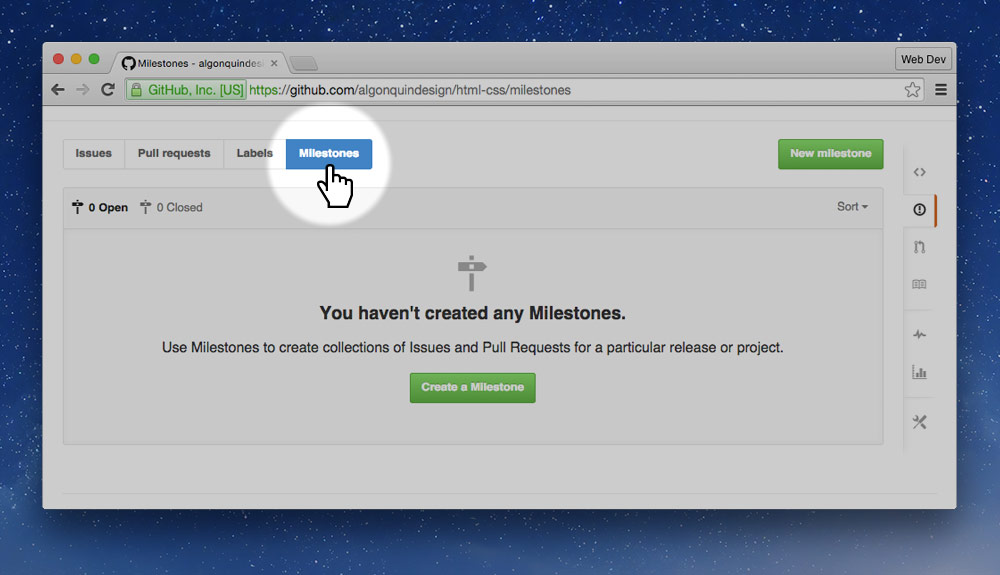
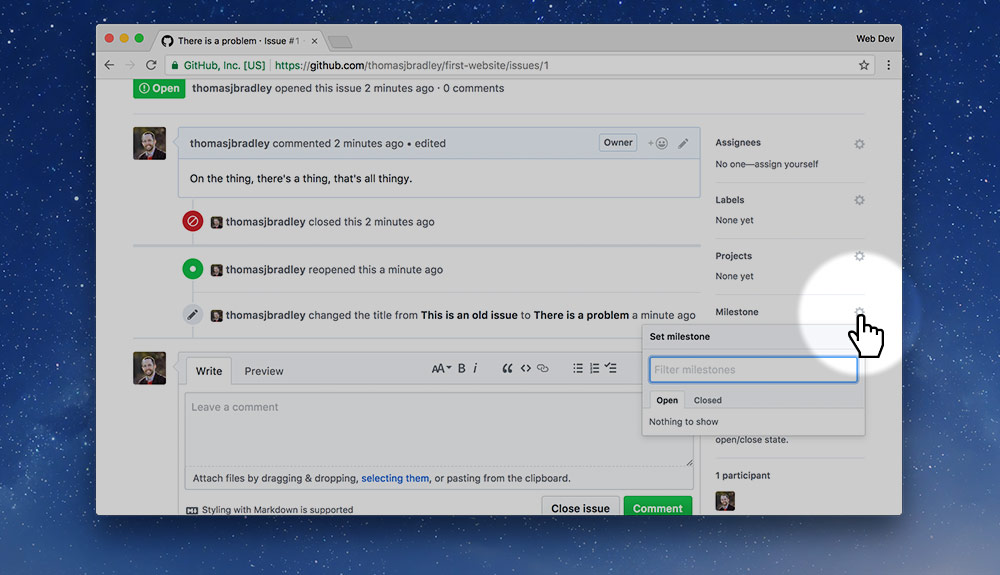
Update the GitHub intro tutorials

diff --git a/version-control-github.md b/version-control-github.md
@@ -3,6 +3,7 @@ title: "Version control & GitHub"
 tags: "version control history undo saving github use committing syncing undo saving history messages descriptions application"
 desc: "Understanding the value of version control and how it helps us and using GitHub to store the code’s history and synchronize."
 playlist: PLWjCJDeWfDdcj8_NSNFfsbHrjCfetYJWJ
+cheatsheet: commit-message-cheat-sheet
 ---
 
 Version control is something all developers & designers should become intimately familiar with. It allows us to track changes in our code, over time, and rollback to older versions if we mess up.
@@ -57,6 +58,8 @@ That’s it—but, there is so much more you can do.
 
 [GitHub](https://github.com) is one of the most common places to hold open-source (and closed-source) code. It offers a place to put the code for free and has fully integrated version control.
 
+![](github.jpg)
+
 GitHub is based entirely on top of Git, the version control system, and integrated around its features while adding more hosting and project management tools.
 
 *You’ll need to get a [GitHub](https://github.com) account before we go any further.*
@@ -65,11 +68,12 @@ GitHub is based entirely on top of Git, the version control system, and integrat
 
 We’ll need to install the GitHub Desktop application so we can interact with GitHub and Git form our computer.
 
+![](github-desktop.jpg)
+![](github-desktop-user.jpg)
+
 1. Download the app from the [GitHub Desktop](https://desktop.github.com/) website.
 2. When it asks you to move it to the applications folder—press “Move to Applications Folder”.
 3. Sign in with your GitHub username, email address, and password.
-4. When it asks you to look for repositories—press “Skip”.
-5. *It will try to get you to do a tutorial with these little pop-up bubbles—don’t bother, press the little “x” icon on the bubble.*
 
 ### Creating a new project
 
@@ -114,9 +118,9 @@ It will detect whatever file in your code you’ve changed and show you a screen
 
 **Make sure to write a descriptive message!**
 
-![](sync.jpg)
+![](push.jpg)
 
-Then sync it to the GitHub website—allowing anybody to see your website live on the Web.
+Then push it to the GitHub website—allowing anybody to see your website live on the Web.
 
 #### Commit early, commit often
 
@@ -132,10 +136,25 @@ The idea is to commit frequently. As soon as you’ve added a small function or 
 
 Every time you commit you must write a commit message describing what you changed. Some examples:
 
-- “Bug fix: the dinosaur name function was always returning Tyranosaurus Rex”
-- “New feature: added the ability to track the length of a dinosaur”
+- “Fix the dinosaur name function that was always returning Tyranosaurus Rex”
+- “Add the ability to track the length of a dinosaur”
 
 **Your commit messages must be descriptive and specific.** If you ever need to go back in time on your project, they describe the state of the project for that commit. **Commit messages are for you and other developers.**
+
+##### Commit message best practices
+
+There are a few important best practices to follow when writing commit messages:
+
+1. Minimum 3 words & 10 characters long
+  <br>You want to be able to understand the purpose of the commit when looking in the history
+2. Proper spelling & grammar
+  <br>Including a capital letter at the start
+  <br>Not including a period at the end
+3. Must start with an imperative verb
+  <br>Start with words like “Fix”, “Add”, “Change”, etc.
+  <br>It’s best to imagine that all your commit messages start with the phrase: **“This commit will…”**
+
+[**☛ See the Commit message cheat sheet for examples**](/topics/commit-message-cheat-sheet/)
 
 ---
 
@@ -143,7 +162,7 @@ Every time you commit you must write a commit message describing what you change
 
 To ignore files that you don’t want committed to your repository—like passwords—use a `.gitignore` file.
 
-Just create a file in your repository named `.gitignore` and put the names of the files you want to ignore inside it.
+Create a file in your repository named `.gitignore` and put the names of the files you want to ignore inside it.
 
 ### Ignore my database connection file
 

diff --git a/github-issues.md b/github-issues.md
@@ -3,6 +3,7 @@ title: "GitHub Issues"
 tags: "github issues labels descriptions project management problems help"
 desc: "What GitHub Issues do for use and how to use them for getting feedback, tracking progress, and more."
 video: yAPSbIHcDTw
+cheatsheet: markdown-yaml-cheat-sheet
 ---
 
 GitHub Issues is a simple tool that allows you to track your progress, keep a task list, collect feedback, and report bugs for your GitHub hosted project.
@@ -15,11 +16,22 @@ GitHub Issues are a bug tracking system built into the GitHub service. They prov
 
 ---
 
+## Enabling the issues tab
+
+Sometimes, especially when forking a repository, the Issues tab may not be enabled. It’s a simple fix to turn the Issues tab back on.
+
+![](enable-issues.jpg)
+
+1. Go to the “Settings” tab
+2. Scroll down the page a little and check the “Issues” checkbox.
+
+---
+
 ## Making a new issue
 
-On the right side of GitHub repositories is a tab called “Issues”. If it’s not there it’s because the owner has disabled issues.
+At the top of GitHub repositories there is a tab called “Issues”. If it’s not there it’s because the owner has disabled issues.
 
-![](github-issues.jpg)
+![](issues-tab.jpg)
 
 After clicking the tab, there’s a big button: “New Issue”.
 
@@ -83,7 +95,9 @@ Emoji can be a helpful way to specify human emotions in your GitHub Issues.
 
 ## Commenting on issues
 
-After an issue is created anybody and comment and provide feedback on the issue—ideally to help improve and solve the problem.
+After an issue is created anybody can comment and provide feedback on the issue—ideally to help improve and solve the problem.
+
+![](comment.jpg)
 
 *Everything above: Markdown formatting, mentioning, emoji, images, etc. can be included in comments.*
 
@@ -115,6 +129,10 @@ All you have to do is just click on the label you want to add.
 
 If you want to add more labels go to the “Labels” tab of the issues interface.
 
+![](new-label-button.jpg)
+
+Then press the green “New Label” button.
+
 ![](new-label.jpg)
 
 ### Milestones
@@ -123,15 +141,20 @@ Milestones allow you to group a bunch of issues together and assign a due date t
 
 Before assigning milestones to issues they need to be created. From the “Issues” interface you can create new milestones.
 
-![](milestones.jpg)
+![](new-milestone-button.jpg)
 
-The new milestone screen allows you to add a title and description as well as defining a due date.
+Press one of the big green buttons then fill out the information.
 
 ![](new-milestone.jpg)
 
+The new milestone screen allows you to add a title and description as well as defining a due date.
+
+![](write-milestone.jpg)
+
+
 After the milestone has been created, it can be added to the issue using the “Milestone” control.
 
-![](add-milestone.jpg)
+![](milestones.jpg)
 
 **Links**
 
@@ -162,7 +185,9 @@ Every member can even check off the task item when complete and the issue will b
 
 ## Video list
 
-1. [GitHub: Using Issues](https://www.youtube.com/watch?v=yAPSbIHcDTw&index=8&list=PLWjCJDeWfDdcj8_NSNFfsbHrjCfetYJWJ)
+1. [GitHub: using Issues](https://www.youtube.com/watch?v=yAPSbIHcDTw&index=8&list=PLWjCJDeWfDdcj8_NSNFfsbHrjCfetYJWJ)
+2. [GitHub: enabling the Issues tab](https://www.youtube.com/watch?v=vTULg-7xycs&index=9&list=PLWjCJDeWfDdcj8_NSNFfsbHrjCfetYJWJ)
+3. [GitHub: task, labels & milestones](https://www.youtube.com/watch?v=ukYSRu4k0gs&index=10&list=PLWjCJDeWfDdcj8_NSNFfsbHrjCfetYJWJ)
 
 ## Supplemental links
 
